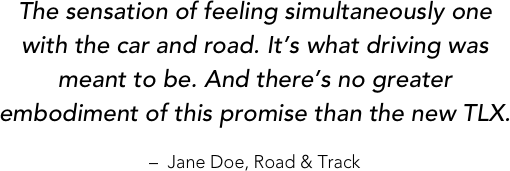
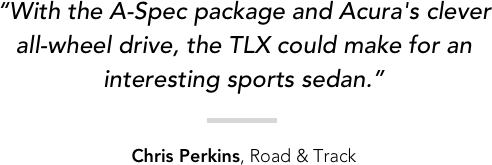
GOTL #3 email updates - Quotes updated along with images, plus subject line update

diff --git a/review.web/Content/Review/2018-tlx-gotl-03.html b/review.web/Content/Review/2018-tlx-gotl-03.html
@@ -4,7 +4,7 @@
     <meta http-equiv="Content-Type" content="text/html; charset=UTF-8"/>
     <meta name="viewport" content="width=device-width, maximum-scale=1, minimum-scale=1, user-scalable=no" />
     <meta name=”x-apple-disable-message-reformatting” />
-    <title>The New 2018 TLX – The Reviews Are In!</title>
+    <title>The 2018 Acura TLX - New Look, New Praise</title>
     <style type="text/css">
       .image--max-width-50 {max-width: 50vw !important; height auto;}
       ReadMsgBody{ width: 100%;}
@@ -80,10 +80,10 @@
               <tbody>
                 <tr>
                   <td style="color:#000000;text-align:left;font-size:16px;font-family:'Helvetica Neue', Helvetica, Arial, 'Lucida Grande', sans-serif;vertical-align:top;" valign="top">
-                    <div class="graphic-cta"><a target="_blank" href="http://www.acura.com/future-vehicles/2018-tlx/?SP_RID=%%RECIPIENT_ID%%&SP_MID=%%MAILING_ID%%&PROGRAMID=%%PROGID%%&CAMPAIGNCODE=%%CAMPAIGNCODE%%&OFFERCODE=%%OFFERCODE%%&CELLCODE=%%CELL%%&PID=%%PID%%&LINKNAME=%%LINK_NAME%%&FROM=%%MAILING_NAME%%" style="margin:0;padding:0; border:none;text-decoration:none;text-align:center;font-size:36px;color:#000000;display:block;"><font color="#000000"><img style="margin:0 auto;padding:0;border:none !important;outline:none !important;display:block;text-align:center;background-color:#ffffff;" alt="ACURA | TLX" width="600" height="85" src="2018-tlx-gotl-03/header-tlx-white.png"/></font></a></div>
+                    <div class="graphic-cta"><a target="_blank" href="http://www.acura.com/future-vehicles/new-2018-acura-tlx/?SP_RID=%%RECIPIENT_ID%%&SP_MID=%%MAILING_ID%%&PROGRAMID=%%PROGID%%&CAMPAIGNCODE=%%CAMPAIGNCODE%%&OFFERCODE=%%OFFERCODE%%&CELLCODE=%%CELL%%&PID=%%PID%%&LINKNAME=%%LINK_NAME%%&FROM=%%MAILING_NAME%%" style="margin:0;padding:0; border:none;text-decoration:none;text-align:center;font-size:36px;color:#000000;display:block;"><font color="#000000"><img style="margin:0 auto;padding:0;border:none !important;outline:none !important;display:block;text-align:center;background-color:#ffffff;" alt="ACURA | TLX" width="600" height="85" src="2018-tlx-gotl-03/header-tlx-white.png"/></font></a></div>
                     <table class="content-container" width="100%" cellpadding="0" cellspacing="0" border="0" bgcolor="#000000">
                       <tr><td colspan="3">
-                        <a target="_blank" href="http://www.acura.com/future-vehicles/2018-tlx/?SP_RID=%%RECIPIENT_ID%%&SP_MID=%%MAILING_ID%%&PROGRAMID=%%PROGID%%&CAMPAIGNCODE=%%CAMPAIGNCODE%%&OFFERCODE=%%OFFERCODE%%&CELLCODE=%%CELL%%&PID=%%PID%%&LINKNAME=%%LINK_NAME%%&FROM=%%MAILING_NAME%%" style="margin:0;padding:0; border:none;text-decoration:none;text-align:center;font-size:36px;color:#FFFFFF;display:block;"><img class="graphic-cta" style="margin:0 auto;padding:0;border:none !important;outline:none !important;display:block;text-align:center;" alt="Acura TLX" width="600" height="380" src="2018-tlx-gotl-03/tlx-hero.jpg"/></a>
+                        <a target="_blank" href="http://www.acura.com/future-vehicles/new-2018-acura-tlx/?SP_RID=%%RECIPIENT_ID%%&SP_MID=%%MAILING_ID%%&PROGRAMID=%%PROGID%%&CAMPAIGNCODE=%%CAMPAIGNCODE%%&OFFERCODE=%%OFFERCODE%%&CELLCODE=%%CELL%%&PID=%%PID%%&LINKNAME=%%LINK_NAME%%&FROM=%%MAILING_NAME%%" style="margin:0;padding:0; border:none;text-decoration:none;text-align:center;font-size:36px;color:#FFFFFF;display:block;"><img class="graphic-cta" style="margin:0 auto;padding:0;border:none !important;outline:none !important;display:block;text-align:center;" alt="Believe The Hype | Acura TLX" width="600" height="380" src="2018-tlx-gotl-03/tlx-hero.jpg"/></a>
                       </td></tr>
                       <tr>
                         <td style="width:50px;" width="50"><img class="spacer col-space-content-container" style="margin:0 auto;padding:0;border:none !important;outline:none !important;display:block;text-align:center;" src="2018-tlx-gotl-03/spacer.png" height="1" width="50"/>
@@ -91,7 +91,7 @@
                         <td class="content-container-cell" valign="top">
                         <table width="100%" border="0" cellpadding="0" cellspacing="0" style="min-width:100%;">
                           <tr><td class="content acura-body-copy" style="line-height:30px;font-family:'Helvetica Neue', Helvetica, Arial, 'Lucida Grande', sans-serif;font-size:16px;text-align:left;color:#FFFFFF;" align="left">
-                            With refreshed styling and enhancements galore, the new TLX speaks for itself. Of course, that hasn't stopped others from praising our driver-first performance sedan.
+                            The alluring new TLX will be available at your Acura retailer on June 1st, just in time for those memorable summer drives. With refreshed styling and enhancements galore, our driver-first performance sedan truly speaks for itself. Of course, that hasn't stopped the automotive media from singing its praises.
                           </td></tr>
                           <tr><td height="10"></td></tr>
                         </table>
@@ -108,7 +108,7 @@
                       <tr><td valign="top" align="center">
                         <table style="width:auto; margin: 0 auto;" cellpadding="0" cellspacing="0" border="0" align="center">
                           <tr>
-                            <td class="acura-button mobile-wide" style="vertical-align:middle;padding:16px 50px;border-width:2px;border-style:solid;border-color:#e82c2a;background-color:#ffffff;font-family:'Helvetica Neue', Helvetica, Arial, 'Lucida Grande', sans-serif;font-size:16px;text-align:center;color:#000000;" valign="middle" align="center"><a class="acura-button-inner" href="http://www.acura.com/future-vehicles/2018-tlx/?SP_RID=%%RECIPIENT_ID%%&SP_MID=%%MAILING_ID%%&PROGRAMID=%%PROGID%%&CAMPAIGNCODE=%%CAMPAIGNCODE%%&OFFERCODE=%%OFFERCODE%%&CELLCODE=%%CELL%%&PID=%%PID%%&LINKNAME=%%LINK_NAME%%&FROM=%%MAILING_NAME%%" style="text-decoration:none;line-height:16px;font-weight:bold;display:inline-block;font-family:'HelveticaNeue-Bold', 'Helvetica Neue Bold', 'Helvetica Neue', Helvetica, Arial, 'Lucida Grande', sans-serif;font-size:16px;text-align:center;color:#000000;" align="center"><font color="#000000">EXPLORE THE NEW TLX</font></a>
+                            <td class="acura-button mobile-wide" style="vertical-align:middle;padding:16px 50px;border-width:2px;border-style:solid;border-color:#e82c2a;background-color:#ffffff;font-family:'Helvetica Neue', Helvetica, Arial, 'Lucida Grande', sans-serif;font-size:16px;text-align:center;color:#000000;" valign="middle" align="center"><a class="acura-button-inner" href="http://www.acura.com/future-vehicles/new-2018-acura-tlx/?SP_RID=%%RECIPIENT_ID%%&SP_MID=%%MAILING_ID%%&PROGRAMID=%%PROGID%%&CAMPAIGNCODE=%%CAMPAIGNCODE%%&OFFERCODE=%%OFFERCODE%%&CELLCODE=%%CELL%%&PID=%%PID%%&LINKNAME=%%LINK_NAME%%&FROM=%%MAILING_NAME%%" style="text-decoration:none;line-height:16px;font-weight:bold;display:inline-block;font-family:'HelveticaNeue-Bold', 'Helvetica Neue Bold', 'Helvetica Neue', Helvetica, Arial, 'Lucida Grande', sans-serif;font-size:16px;text-align:center;color:#000000;" align="center"><font color="#000000">EXPLORE THE NEW TLX</font></a>
                             </td>
                           </tr>
                           </table>
@@ -135,31 +135,31 @@
                       <tr><td height="30"></td></tr>
 
                       <tr><td valign="top" align="center">
-                        <img class="graphic-cta" style="margin:0 auto;padding:0;border:none !important;outline:none !important;display:block;text-align:center; font-size:24px; font-family:'Helvetica Neue', Helvetica, Arial, 'Lucida Grande', sans-serif; font-style:italic;" alt="The sensation of feeling simultaneously one with the care and road. It&rsquo;s what driving was meant to be. And there&rsquo;s no greater embodiment of this promise than the new TLX. - Jane Doe, Road &amp; Track" width="510" height="171" src="2018-tlx-gotl-03/tlx-quote01.png" />
+                        <img class="graphic-cta" style="margin:0 auto;padding:0;border:none !important;outline:none !important;display:block;text-align:center; font-size:24px; font-family:'Helvetica Neue', Helvetica, Arial, 'Lucida Grande', sans-serif; font-style:italic;" alt="&ldquo;With the A-Spec package and Acura&rsquo;s clever all-wheel drive, the TLX could make for an interesting sports sedan.&rdquo; - Chris Perkins, Road &amp; Track" width="492" height="165" src="2018-tlx-gotl-03/tlx-quote01.png" />
                       </td></tr>
 
                       <tr><td height="70"></td></tr>
 
                       <tr><td valign="top" align="center">
-                        <img class="graphic-cta" src="2018-tlx-gotl-03/tlx-quote02.jpg" width="452" height="140" style="margin:0 auto;padding:0;border:none !important;outline:none !important;display:block;text-align:center; font-size:24px; font-family:'Helvetica Neue', Helvetica, Arial, 'Lucida Grande', sans-serif; font-style:italic;" alt="The new TLX is one thrilling ride. A true revelation! - Jane Doe, Car &amp; Driver" />
+                        <img class="graphic-cta" src="2018-tlx-gotl-03/tlx-quote02.jpg" width="477" height="234" style="margin:0 auto;padding:0;border:none !important;outline:none !important;display:block;text-align:center; font-size:24px; font-family:'Helvetica Neue', Helvetica, Arial, 'Lucida Grande', sans-serif; font-style:italic;" alt="&ldquo;No lower-trim BMW or Audi can touch the 2018 TLX&rsquo;s standard features, which include AcuraWatch active safety tech, LED headlights, and Apple CarPlay and Android Auto functionality.&rdquo; - Zach Gale, MotorTrend" />
                       </td></tr>
 
                       <tr><td height="50"></td></tr>
                     </table>
 
-                    <a target="_blank" href="http://www.acura.com/future-vehicles/2018-tlx/?SP_RID=%%RECIPIENT_ID%%&SP_MID=%%MAILING_ID%%&PROGRAMID=%%PROGID%%&CAMPAIGNCODE=%%CAMPAIGNCODE%%&OFFERCODE=%%OFFERCODE%%&CELLCODE=%%CELL%%&PID=%%PID%%&LINKNAME=%%LINK_NAME%%&FROM=%%MAILING_NAME%%" style="margin:0;padding:0; border:none;text-decoration:none;text-align:center;font-size:36px;color:#000000;display:block;"><font color="#000000"><img style="width:100%; height:auto; margin:0 auto;padding:0;border:none !important;outline:none !important;display:block;text-align:center;line-height:383px;width:600px;height:383px;" height="363" width="600" alt="" src="2018-tlx-gotl-03/tlx-intuitive-cockpit.jpg"/></font></a>
+                    <a target="_blank" href="http://www.acura.com/future-vehicles/new-2018-acura-tlx/?SP_RID=%%RECIPIENT_ID%%&SP_MID=%%MAILING_ID%%&PROGRAMID=%%PROGID%%&CAMPAIGNCODE=%%CAMPAIGNCODE%%&OFFERCODE=%%OFFERCODE%%&CELLCODE=%%CELL%%&PID=%%PID%%&LINKNAME=%%LINK_NAME%%&FROM=%%MAILING_NAME%%" style="margin:0;padding:0; border:none;text-decoration:none;text-align:center;font-size:36px;color:#000000;display:block;"><font color="#000000"><img style="width:100%; height:auto; margin:0 auto;padding:0;border:none !important;outline:none !important;display:block;text-align:center;line-height:383px;width:600px;height:383px;" height="363" width="600" alt="" src="2018-tlx-gotl-03/tlx-intuitive-cockpit.jpg"/></font></a>
 
                     <table class="content-container" width="100%" cellpadding="0" cellspacing="0" border="0">
                       <tr><td height="50"></td></tr>
 
                       <tr><td valign="top" align="center">
-                        <img class="graphic-cta"  width="434" height="169" src="2018-tlx-gotl-03/tlx-quote03.png" alt="Acura&rsquo;s commitment to Precision Crafted Performance continues with the new TLX, the next huge step for the vaunted automaker. - John Doe, Motor Trend" style="margin:0 auto;padding:0;border:none !important;outline:none !important;display:block;text-align:center; font-size:24px; font-family:'Helvetica Neue', Helvetica, Arial, 'Lucida Grande', sans-serif; font-style:italic;" />
+                        <img class="graphic-cta"  width="510" height="130" src="2018-tlx-gotl-03/tlx-quote03.png" alt="&ldquo;Fun and inspiration have brought out the best in TLX looks.&rdquo; - George Peterson, Forbes" style="margin:0 auto;padding:0;border:none !important;outline:none !important;display:block;text-align:center; font-size:24px; font-family:'Helvetica Neue', Helvetica, Arial, 'Lucida Grande', sans-serif; font-style:italic;" />
                       </td></tr>
 
                       <tr><td height="85"></td></tr>
 
                       <tr><td valign="top" align="center">
-                        <img class="graphic-cta"  width="491" height="103" src="2018-tlx-gotl-03/tlx-quote04.png" alt="Easy on the eyes, loaded with features, and a blast to drive. What more could you ask? - Jan Doe, Autoweek" style="margin:0 auto;padding:0;border:none !important;outline:none !important;display:block;text-align:center; font-size:24px; font-family:'Helvetica Neue', Helvetica, Arial, 'Lucida Grande', sans-serif; font-style:italic;" />
+                        <img class="graphic-cta"  width="495" height="167" src="2018-tlx-gotl-03/tlx-quote04.png" alt="&ldquo;The 2018 Acura TLX is here, showing off reinvigorated styling in a premium sedan with sport chops.&rdquo; - Wayne Cunningham, Road/Show" style="margin:0 auto;padding:0;border:none !important;outline:none !important;display:block;text-align:center; font-size:24px; font-family:'Helvetica Neue', Helvetica, Arial, 'Lucida Grande', sans-serif; font-style:italic;" />
                       </td></tr>
 
                       <tr><td height="65"></td></tr>
@@ -235,7 +235,7 @@
                                                               <img class="spacer col-space-content-container" style="margin:0 auto;padding:0;border:none !important;outline:none !important;display:block;text-align:center;" src="2018-tlx-gotl-03/spacer.png" height="1" width="15"/>
                                                             </td>
 
-                                                            <td class="acura-button mobile-wide" style="vertical-align:middle;padding:16px 50px;border-width:2px;border-style:solid;border-color:#e82c2a;background-color:#ffffff;font-family:'Helvetica Neue', Helvetica, Arial, 'Lucida Grande', sans-serif;font-size:16px;text-align:center;color:#000000;" valign="middle" align="center"><a class="acura-button-inner" href="http://www.acura.com/future-vehicles/2018-tlx/?SP_RID=%%RECIPIENT_ID%%&SP_MID=%%MAILING_ID%%&PROGRAMID=%%PROGID%%&CAMPAIGNCODE=%%CAMPAIGNCODE%%&OFFERCODE=%%OFFERCODE%%&CELLCODE=%%CELL%%&PID=%%PID%%&LINKNAME=%%LINK_NAME%%&FROM=%%MAILING_NAME%%" style="text-decoration:none;line-height:16px;font-weight:bold;display:inline-block;font-family:'HelveticaNeue-Bold', 'Helvetica Neue Bold', 'Helvetica Neue', Helvetica, Arial, 'Lucida Grande', sans-serif;font-size:16px;text-align:center;color:#000000;" align="center"><font color="#000000">EXPLORE THE NEW TLX</font></a>
+                                                            <td class="acura-button mobile-wide" style="vertical-align:middle;padding:16px 50px;border-width:2px;border-style:solid;border-color:#e82c2a;background-color:#ffffff;font-family:'Helvetica Neue', Helvetica, Arial, 'Lucida Grande', sans-serif;font-size:16px;text-align:center;color:#000000;" valign="middle" align="center"><a class="acura-button-inner" href="http://www.acura.com/future-vehicles/new-2018-acura-tlx/?SP_RID=%%RECIPIENT_ID%%&SP_MID=%%MAILING_ID%%&PROGRAMID=%%PROGID%%&CAMPAIGNCODE=%%CAMPAIGNCODE%%&OFFERCODE=%%OFFERCODE%%&CELLCODE=%%CELL%%&PID=%%PID%%&LINKNAME=%%LINK_NAME%%&FROM=%%MAILING_NAME%%" style="text-decoration:none;line-height:16px;font-weight:bold;display:inline-block;font-family:'HelveticaNeue-Bold', 'Helvetica Neue Bold', 'Helvetica Neue', Helvetica, Arial, 'Lucida Grande', sans-serif;font-size:16px;text-align:center;color:#000000;" align="center"><font color="#000000">EXPLORE THE NEW TLX</font></a>
                                                             </td>
 
                                                             <td width="15">
@@ -268,13 +268,28 @@
                                       <img width="525" height="20" src="2018-tlx-gotl-03/tlx-late-to-the-pary-shadow.png" alt="" style="margin:0;padding:0;border:none !important;outline:none !important;display:block;text-align:center;" />
                                     </td></tr>
 
-                                    <tr><td height="60"></td></tr>
+                                    <tr><td height="30"></td></tr>
                                 </table>
                             </td></tr>
                         </table>
                         </div>
                       </td></tr>
                     </table>
+
+                    <table class="content-container" width="100%" cellpadding="0" cellspacing="0" border="0" bgcolor="#f2f2f2">
+                      <tbody><tr>
+                        <td width="50"></td>
+
+                        <td class="content acura-body-copy" align="center" style="line-height:30px;font-family:'Helvetica Neue', Helvetica, Arial, 'Lucida Grande', sans-serif;font-size:16px;text-align:center;color:#000000;">
+                          Join the TLX conversation on Acura’s <a target="_blank" href="https://www.facebook.com/Acura/" style="text-decoration:none;font-weight:bold;display:inline-block;font-family:'Helvetica Neue', Helvetica, Arial, 'Lucida Grande', sans-serif;text-align:center;color:#e82c2a" align="center">Facebook</a> and <a target="_blank" href="https://www.instagram.com/acura/" style="text-decoration:none;font-weight:bold;display:inline-block;font-family:'Helvetica Neue', Helvetica, Arial, 'Lucida Grande', sans-serif;text-align:center;color:#e82c2a" align="center">Instagram</a>.
+                        </td>
+
+                        <td width="50"></td>
+                      </tr>
+
+                      <tr><td height="50" colspan="3">
+                      </td></tr>
+                    </tbody></table>
 
                     <div class="content" style="background-color:#000000;font-family:'Helvetica Neue', Helvetica, Arial, 'Lucida Grande', sans-serif;font-size:16px;text-align:left;color:#ffffff;"><img class="spacer line-space-medium" style="margin:0 auto;padding:0;border:none !important;outline:none !important;display:block;text-align:center;" src="2018-tlx-gotl-03/spacer.png" height="50" width="1"/>
                       <table class="content-container" style="width:100%;color:#ffffff;text-align:left;font-size:16px;font-family:'Helvetica Neue', Helvetica, Arial, 'Lucida Grande', sans-serif;background-color:#000000;" width="100%" cellpadding="0" cellspacing="0" border="0">
